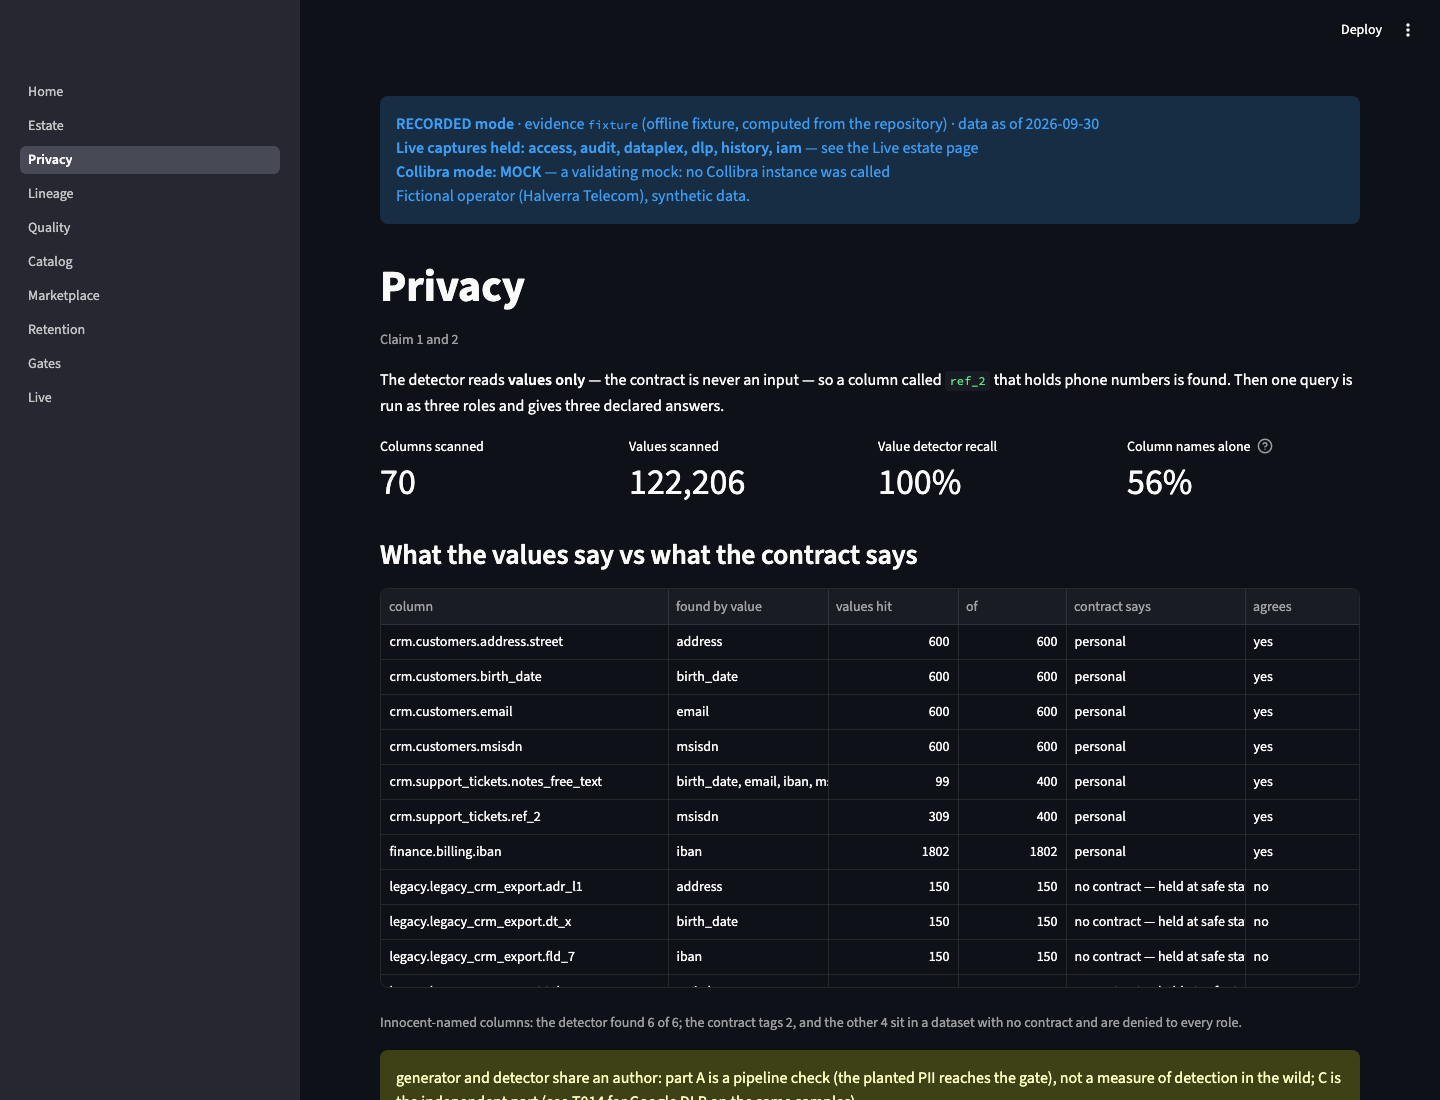
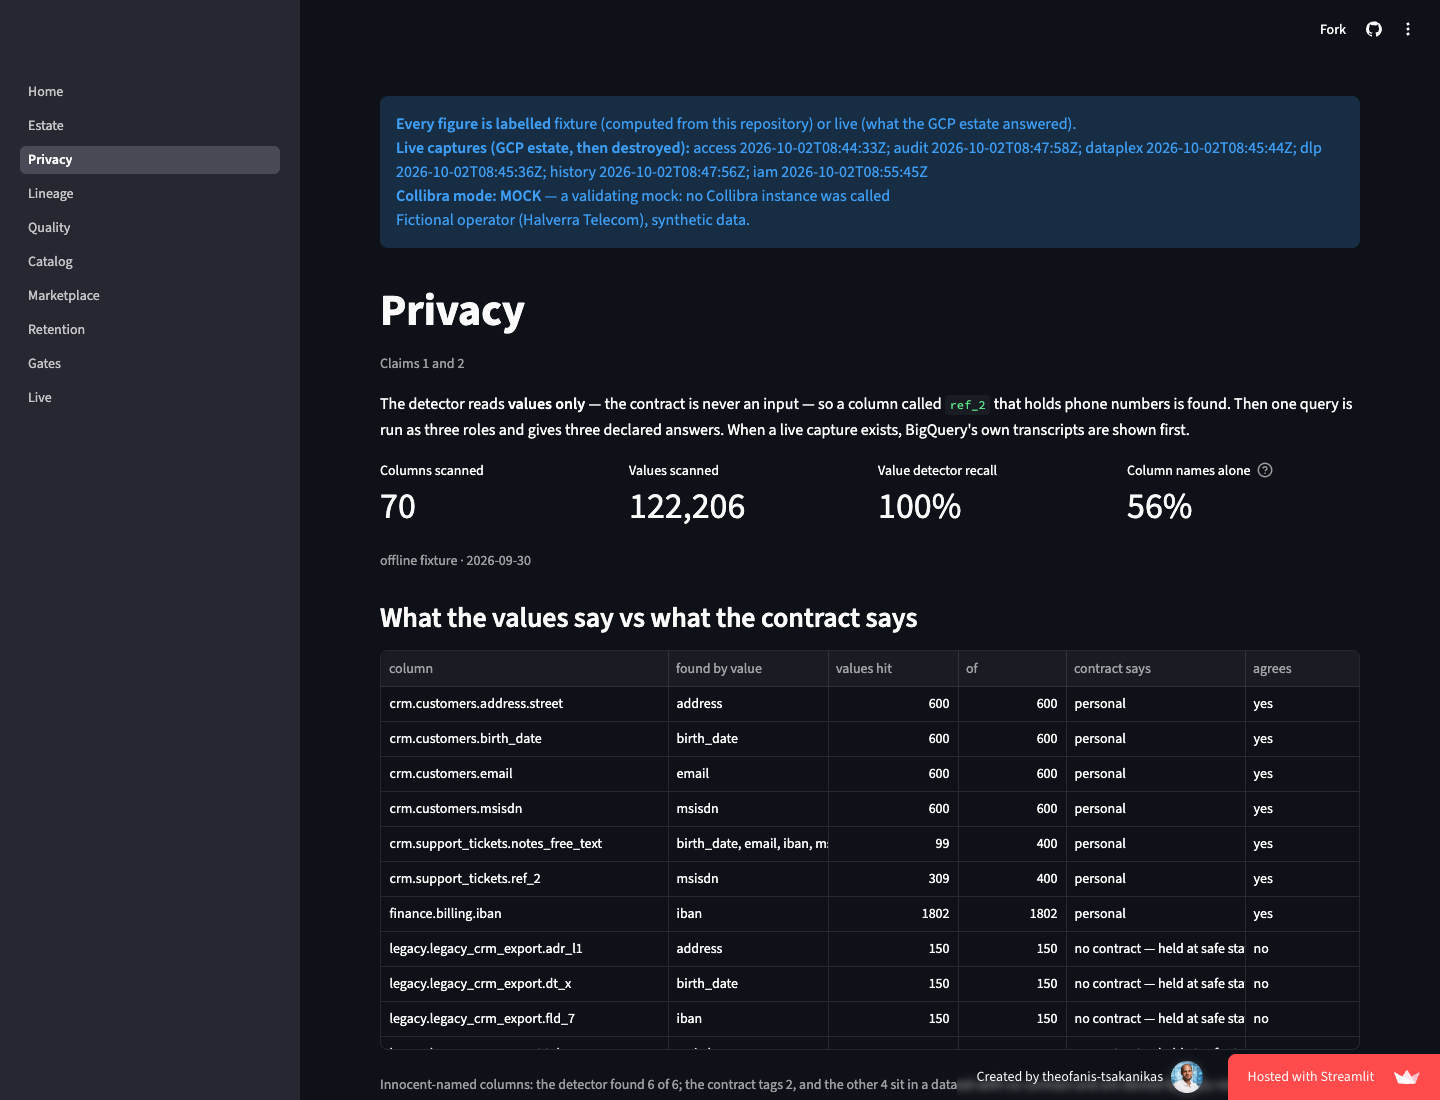
docs: recapture README from the hosted demo and time the interview script
The Status screenshots still showed the old recorded-mode banner. They now match
the public app, including the live three-role transcripts for claim 2, and the
3-minute script names what each page actually shows.

diff --git a/docs/INTERVIEW.md b/docs/INTERVIEW.md
@@ -3,6 +3,8 @@
 The role, as the recruiter described it, line by line, and where Steward answers it. The demo page
 in brackets. (The employer is private; this file names no company.)
 
+Hosted demo (public, no login): <https://steward-governance.streamlit.app>
+
 | The role asks | Steward shows | Page |
 |---|---|---|
 | Automate data governance on GCP | Contracts compile to controls; Terraform; CI gates | 1, 8 |
@@ -17,22 +19,43 @@ in brackets. (The employer is private; this file names no company.)
 
 ## The 3-minute demo script (to rehearse with the author in T030)
 
-Open the home page so the MOCK badge and “fictional operator” line are on screen before you speak.
+Open <https://steward-governance.streamlit.app> so the **MOCK** badge, the **fictional operator**
+line, and the live-capture timestamps are on screen before you speak. Do not wait for a login.
 
-1. (20 s) "A fictional European operator on GCP. Contracts declare every dataset; everything else is generated. The live estate was applied, captured and destroyed — what you are looking at is the evidence."
-2. (40 s) Privacy: a column called `ref_2` held phone numbers; the value-based detector found it (the contract is never an input). Then one query, three roles, three answers. Live, BigQuery masked; offline we prove the compiled Terraform.
-3. (40 s) Lineage: source → table → LookML view → dashboard; a field that resolves nowhere and a sensitive column that reached a dashboard unmasked are both red. Edges from jobs and from LookML are cross-checked, not merged.
-4. (40 s) Catalog: the Collibra payload, second sync = zero changes, the reconciliation report. Say **MOCK** first. 91 assets in the fixture.
-5. (20 s) Marketplace: a request approved by a named person, not the requester, with an expiry. An expired grant still present turns CI red.
-6. (20 s) Gates: every gate is broken on purpose; the named gate must refuse it, for the right reason.
+1. **Home (20 s).** "A fictional European operator on GCP. YAML contracts declare every dataset;
+   everything else is generated. We applied the estate, captured what BigQuery, DLP and Dataplex
+   actually answered, then destroyed it. Each figure on this page says fixture or live, with that
+   file's own date — not one banner date."
+2. **Privacy (40 s).** Click Privacy. First the offline detector: a column called `ref_2` held
+   phone numbers; values only, the contract is never an input; 18 of 18 planted pairs. Scroll to
+   **One query, three roles** — that block is a live capture. Same `SELECT` on `crm.customers`:
+   the analyst gets hashed MSISDN, email as `XXXXX@domain`, GR rows only; the steward sees last-four
+   MSISDN and every country; fraud is denied that table. The fraud seat's own query on
+   `network.usage_events` comes back in the clear — IMSI and MSISDN — because that is what the
+   contract grants. Offline we also prove 3,200 compiled seat × column decisions; the rows on
+   screen are what BigQuery returned.
+3. **Lineage (40 s).** Source → table → LookML view → dashboard. A field that resolves nowhere and
+   a sensitive column that reached a dashboard unmasked are both red. Job-history edges and LookML
+   edges are cross-checked, not merged. The job list at the top is live; the graph under it is the
+   fixture.
+4. **Catalog (30 s).** Say **MOCK** first. Generated payload; first sync sent 100, second sent 0;
+   91 assets. The yellow banner is the point: no Collibra instance was called.
+5. **Marketplace (20 s).** Live IAM bindings first (the estate's actual policy, then destroyed).
+   A request becomes a grant only after a named human who is not the requester; every grant has
+   an expiry; an expired grant still present turns CI red.
+6. **Gates (10 s).** Every gate is broken on purpose; the named gate must refuse it, for the right
+   reason. If there are ten seconds left, Live estate: the same captures re-judged offline, every
+   check passes, no GCP account.
 
 ## Honest lines (say them first)
+
 - "Collibra and Looker: not in production. I built against their documented model and APIs; the demo says MOCK where it is a mock."
 - "GCP governance services: I learned them for this. My production-style GCP work is the telemetry pipeline on GKE, BigQuery, dbt."
 - "BigQuery deletion isn't immediate: time travel and fail-safe keep data up to about two weeks; the retention report says so."
 - "It's a reference build on synthetic data, deployed, captured and destroyed — not a client system."
 
 ## Interview scenarios this rehearses
+
 Slow BigQuery query · lineage to the catalog · DQ rules · PII end to end · pseudonymisation vs hashing · retention · Data Marketplace · legacy metadata · a governance control you built.
 
-Rehearsal with the author is still open (T030).
+Dry-run against the hosted URL: 2026-10-02 (session, pages walked, timings above). Speaking rehearsal with the author is still open (T030 / D8).

diff --git a/README.md b/README.md
@@ -37,11 +37,11 @@ Steward makes the estate declare itself and makes that drift a failing build. Fi
 
 ## Status
 
-Applied on GCP on 2026-10-02, captured, judged offline, then destroyed. The GitHub `destroy` workflow is green (`ok sweep: 0` leftovers). The bootstrap layer (state bucket, Workload Identity, budget, guard, reaper) remains until the project is deleted — it is not $0 idle. The repository is public. **Demo (recorded, no login):** [https://steward-governance.streamlit.app](https://steward-governance.streamlit.app).
+Applied on GCP on 2026-10-02, captured, judged offline, then destroyed. The GitHub `destroy` workflow is green (`ok sweep: 0` leftovers). The bootstrap layer (state bucket, Workload Identity, budget, guard, reaper) remains until the project is deleted — it is not $0 idle. The repository is public. **Demo (no login):** [https://steward-governance.streamlit.app](https://steward-governance.streamlit.app) — live captures first, fixture only where none exists.
 
 <p align="center">
-  <img src="images/status.png" width="860" alt="Recorded demo home: seven claims and the figures the evidence files actually hold"><br>
-  <sub><b>Recorded mode, seven claims.</b> — Collibra MOCK, fictional operator. 18/18 planted pairs, 3,200 seat × column decisions, second catalog sync sent 0.</sub>
+  <img src="images/status.png" width="860" alt="Hosted demo home: seven claims, each labelled fixture or live with that file's date"><br>
+  <sub><b>Seven claims, each figure labelled.</b> — Collibra MOCK, fictional operator. Live transcripts, DLP, Dataplex, IAM; fixture for catalog, retention, gates.</sub>
 </p>
 
 ## Contents
@@ -88,6 +88,10 @@ Live, Google DLP on the same planted set was 16/18 (two misses listed, not hidde
 
 Contracts compile to policy tags, masking (hash, nullify, last-four) and row access policies. Offline proves the compiled Terraform is what the contract implies — 3,200 seat × column decisions, 0 mismatches. Enforcement was captured live as three role transcripts (analyst / fraud / steward) and is re-checked by `scripts/check_live.py` with no account.
 
+![Privacy: live BigQuery transcripts — analyst hashed, fraud sees usage events in the clear](images/privacy-roles.png)
+
+<sub><b>Same query, different answer, from the estate.</b> — analyst on <code>crm.customers</code>: hashed MSISDN, email <code>XXXXX@domain</code>, GR rows only. Fraud on <code>network.usage_events</code>: IMSI and MSISDN in the clear. Live capture 2026-10-02, then destroyed.</sub>
+
 ## The catalog is generated
 
 The Collibra payload (communities, domains, assets, relations, responsibilities) is built from contracts + harvest. The validating mock rejects unknown asset types, missing attributes and dangling relations. First sync sent 100 changes; second sent 0. Mode **MOCK**.
@@ -98,11 +102,11 @@ The Collibra payload (communities, domains, assets, relations, responsibilities)
 
 ## Live captures, judged offline
 
-The estate answered; the repository judges. Six live files (`access`, `dlp`, `dataplex`, `iam`, `audit`, `history`) sit beside the fixtures. The Live page never replaces recorded mode.
+The estate answered; the repository judges. Six live files (`access`, `dlp`, `dataplex`, `iam`, `audit`, `history`) sit beside the fixtures. Claim pages show a live capture first when one exists; this page re-judges every file with no GCP account.
 
 ![Live estate page: captures listed, judged offline](images/live.png)
 
-<sub><b>Live beside recorded, not instead.</b> — six capture tabs; the judgements are in CI (`check_live.py`), not only on this page.</sub>
+<sub><b>Live, re-judged offline.</b> — six capture tabs; every check passes in CI (`check_live.py`), not only on this page.</sub>
 
 ---
 

diff --git a/PLAN.md b/PLAN.md
@@ -15,8 +15,8 @@ the pure core, and the evals for claims 1, 2 (compiled side), 5, 6, 7 — plus `
 **Closes when.** `make test evals gate-proof check` is green on a laptop with no credentials; every
 gate has at least one mutation refused for the right reason; generators pass `--check`.
 
-Closed in this phase: —
-Open: see `TASKS.md` (T000–T009).
+Closed 2026-10-01: T000–T009 (PRs #1–#10). Offline claims 1, 2 (compiled), 5, 6, 7 and `gate-proof`.
+Open: none in this phase.
 
 ---
 
@@ -29,8 +29,8 @@ fixture evidence — so that a demo exists **before** any money is spent.
 **Closes when.** `make demo` opens all eight pages from fixtures; `make evals` covers claims 3 and 4;
 the Collibra sync is idempotent (second run: 0 changes) against the mock.
 
-Closed in this phase: —
-Open: see `TASKS.md` (T020–T029).
+Closed 2026-10-01: T020–T022. LookML lineage (claim 3), Collibra validating mock (claim 4), recorded Streamlit demo from fixtures. T024 waits on a trial (D2, expiry 2026-10-05).
+Open: T024 only.
 
 ---
 
@@ -45,8 +45,8 @@ DLP and Dataplex, capture **live evidence** for every claim into `evidence/`, ve
 them offline; the demo switches from fixtures to captured evidence; spend ≤ €50; the estate is
 destroyed and the destroy is recorded.
 
-Closed in this phase: —
-Open: see `TASKS.md` (T010–T019).
+Closed 2026-10-02: T010–T017. Estate applied from CI via WIF, live evidence captured (access, DLP, Dataplex, IAM, audit, history), judged offline, four layers destroyed (`ok sweep: 0`). Gross spend well under the €10 stop; bootstrap remains until the project is deleted.
+Open: none in this phase.
 
 ---
 
@@ -60,8 +60,7 @@ accepts or rejects (doctrine 5), shown as proposals, never applied automatically
 **Closes when.** A public demo link opens in a browser with no login; README passes `readme-standard`;
 the review's findings are fixed or recorded as deferred with an unlock condition.
 
-Closed in this phase: —
-Open: see `TASKS.md` (T030–T039).
+In progress 2026-10-02: T030. Hosted demo is public ([https://steward-governance.streamlit.app](https://steward-governance.streamlit.app), D7 done). README to the portfolio standard; level-2 review findings fixed or deferred. Remaining unlock: D8, the 3-minute script spoken with the author. T031 is cut (D4).
 
 ---
 

diff --git a/AGENTS.md b/AGENTS.md
@@ -25,19 +25,10 @@ unchanged**. Read, in order: `CLAUDE.md` → `KICKOFF.md` → `PLAN.md` → `TAS
 2. A `docs/DAY-ONE.md` step only the author can do (billing, credentials, trials).
 3. A doc that is wrong in a way that changes a claim.
 
-## Where things stand (2026-10-01, when Claude Code stopped)
-- Closed and merged on `main`: T000–T009 (PRs #1–#10).
-- **PR #11 (T020, claim 3 — LookML lineage), branch `t020-lookml`:** review + verification pass done and
-  recorded in `SESSION-LOG.md`; last commit `52a78f4`. **`make preflight` has not been run on that last
-  commit** → run it, push if needed, wait for CI green, merge.
-- **T021 is half-built and STASHED:** `git stash list` → `t021-wip` (on `t020-lookml`). It holds the catalog
-  core, the validating mock, the REST client and the sync; `sync` / `reconcile` are not yet wired into
-  the CLI. After merging #11: create branch `t021-collibra` from `main`, `git stash apply` the
-  `t021-wip` stash (not `t003-wip`, which is old), finish T021.
-- Then **T022** (Streamlit demo, recorded mode, fixtures) → write + `terraform validate` the Terraform for
-  **T010–T016** → **hard stop** with a Greek summary: what is built, what the demo shows, estimated GCP
-  cost, the exact DAY-ONE inputs needed to apply.
-- **Known phase-3 issue — DECISIONS B8:** BigQuery data masking needs the project to belong to a GCP
-  organization. Without one, claim 2 live shows deny / clear / row-filtered but not masked values; the
-  options are in `docs/DAY-ONE.md` step 1b. Raise it in the hard-stop summary; it is the author's choice.
+## Where things stand (2026-10-02)
+
+- Closed and merged: T000–T022, T010–T017 (PRs through #41). Claims 1–7 offline; live estate applied, captured, destroyed.
+- **T030 open.** Hosted demo: https://steward-governance.streamlit.app (public, no login). D7 done. Remaining unlock: **D8** — INTERVIEW 3-minute script spoken with the author. Dry-run against the URL is dated in `SESSION-LOG.md`. T031 is cut.
+- **T024** blocked on a Collibra trial (D2 expiry 2026-10-05). Mock stands until then.
+- Bootstrap still in the GCP project until it is deleted. DAY-ONE 4 / 7 / 8 still open (author).
 - Deadline: done before **2026-10-06**. Cut order is in `KICKOFF.md`.

diff --git a/SESSION-LOG.md b/SESSION-LOG.md
@@ -423,3 +423,14 @@
 - Υπότιτλος Home: «Seven claims · each figure is labelled fixture or live».
 - Ανοιχτό: INTERVIEW rehearsal (D8).
 
+## 2026-10-02 — INTERVIEW dry-run + README από το hosted URL
+
+- **Τι έγινε:** περπάτημα του 3λεπτου script στο https://steward-governance.streamlit.app (χωρίς login).
+  Το `docs/INTERVIEW.md` λέει ακριβώς τι δείχνει κάθε σελίδα τώρα (live-first, MOCK, timestamps).
+- **Screenshots:** `images/status.png`, `privacy.png`, `privacy-roles.png` (claim 2), `catalog.png`,
+  `live.png` ξανατραβηγμένα από το δημόσιο URL. `check_ids.py` 0 hits.
+- **README:** το Status δεν λέει πια «recorded mode»· το claim 2 έχει το live τριών ρόλων δίπλα στον
+  ισχυρισμό. PLAN phases 1–3 κλειστά στο κείμενο· AGENTS.md ενημερωμένο.
+- **Απόδειξη:** τα PNG στο `images/`· το script στο INTERVIEW.md.
+- **Ανοιχτό:** D8 speaking rehearsal με τον συγγραφέα· T024 trial· DAY-ONE 4/7/8· T031 cut.
+

diff --git a/docs/DECISIONS.md b/docs/DECISIONS.md
@@ -44,7 +44,7 @@ Schema: **Scope · Technology · Method · Deliberately deferred**. Every entry:
 | D5 | Dataform for transformations | unlock: never for this timebox unless asked |
 | D6 | VPC Service Controls perimeter | unlock: needs an organization node; if the project has none, documented only |
 | D7 | Hosted recorded demo on Streamlit Community Cloud (T030) | **done 2026-10-02:** [https://steward-governance.streamlit.app](https://steward-governance.streamlit.app) — public, no login |
-| D8 | Interview 3-minute script rehearsed with the author (T030) | unlock: rehearsal dated in `SESSION-LOG.md` |
+| D8 | Interview 3-minute script rehearsed with the author (T030) | dry-run against the hosted URL 2026-10-02 (session); unlock: speaking rehearsal with the author dated in `SESSION-LOG.md` |
 
 ## Decided during the build (session, 2026-10-01)
 - **B1 — The operator is "Halverra Telecom", domain `halverra.example`.** Searched 2026-10-01: no

diff --git a/TASKS.md b/TASKS.md
@@ -186,7 +186,7 @@ closes        `make demo` opens the eight pages in KICKOFF.md from fixtures with
 out_of_scope  hosting
 stop_at       author clicks through all eight pages
 review        no
-status        closed (2026-10-01) — author click-through of the eight pages still pending (stop_at)
+status        closed (2026-10-01) — hosted click-through of all ten pages 2026-10-02 (public URL)
 ```
 
 ```
@@ -306,7 +306,7 @@ closes        public Streamlit link works with no login; README to readme-standa
 out_of_scope  phase-4 model proposals unless time remains
 stop_at       link sent to the author
 review        yes
-status        open 2026-10-02 — demo URL live; unlock remaining: INTERVIEW rehearsed, dated in SESSION-LOG
+status        open 2026-10-02 — demo URL live; INTERVIEW dry-run against the URL dated; unlock remaining: speaking rehearsal with the author (D8)
 ```
 
 ```

diff --git a/CHANGELOG.md b/CHANGELOG.md
@@ -4,6 +4,8 @@
 
 - Live estate applied, captured (claims 1, 2, 5, 6) and destroyed. Sweep reported 0 leftovers.
   Bootstrap remains until the project is deleted.
+- Hosted demo: https://steward-governance.streamlit.app (public, no login). README screenshots
+  recaptured from that URL (live-first banner, claim 2 three-role transcripts).
 - Catalog mode remains **MOCK**. The operator is fictional; every row is synthetic.
 - `scripts/check_ids.py` refuses a tree that contains the author's GCP identifiers
   (read from git-ignored tfvars or the environment).
